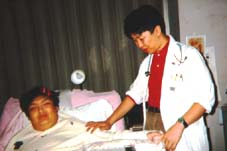
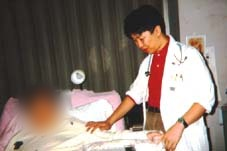
WPW成績をCAデータから再集計して更新、アルバムの写真を修正
- wpw_results.html: 2006/1〜2026/9のWPW治療720件（患者654人）で期間×位置の治療件数・再発件数・再発率を更新。
  顕性・間欠性・潜在性ごとの位置の割合を円グラフ3つで表示（病型未入力は術前心電図の記載から補完）
- album: 「PL教師の顔」を削除、患者さんと赤ちゃんの顔をぼかし、女装の写真を1/4の大きさで「大うけでした」に重ねて表示

Changed region(s): [[0.0617, 0.5828, 0.3084, 0.9272]]

diff --git a/wpw_results.html b/wpw_results.html
@@ -3,7 +3,7 @@
 <head>
   <meta charset="UTF-8">
   <meta name="viewport" content="width=device-width, initial-scale=1, viewport-fit=cover">
-  <meta name="description" content="大阪市立総合医療センター 小児不整脈科で2006年から2026年までに行ったWPW症候群のアブレーション治療の成績。副伝導路の位置（左側・中隔・右側）と治療時期ごとの症例数・再発数・再発率。">
+  <meta name="description" content="大阪市立総合医療センター 小児不整脈科で2006年から2026年までに行ったWPW症候群のアブレーション治療の成績。副伝導路の位置（左側・中隔・右側）と治療時期ごとの治療件数・再発件数・再発率、顕性・間欠性・潜在性ごとの位置の割合。">
   <title>WPW症候群アブレーション 20年間の成績 | つぐとしのweb site</title>
   <link rel="shortcut icon" href="assets/icons/profile.ico">
   <link rel="icon" type="image/png" sizes="32x32" href="assets/icons/profile-32.png">
@@ -102,32 +102,38 @@
       .nx .wpw-area { height: 200px; }
       .nx .wpw-legend { font-size: .82rem; gap: 4px 14px; }
     }
-    /* 位置別の症例数（顕性・潜在性）の棒グラフ：縦軸 0〜160例 */
-    .nx { --q1: #c4581c; --q2: #2a8c7c; }
-    .nx .wpw-sw.q1, .nx .dist-fill.q1 { background: var(--q1); }
-    .nx .wpw-sw.q2, .nx .dist-fill.q2 { background: var(--q2); }
-    .nx .dist-plot { position: relative; margin-top: 14px; }
-    .nx .dist-group { display: flex; flex: 1; justify-content: center; gap: 10px; }
-    .nx .dist-bar { position: relative; width: 34px; height: 100%; }
-    .nx .dist-fill {
-      position: absolute; left: 0; right: 0; bottom: 0; height: calc(var(--v) / 160 * 100%);
-      border-radius: 4px 4px 0 0; transform-origin: bottom; transition: transform .8s cubic-bezier(.2, .7, .2, 1);
+    /* 位置の割合の円グラフ（CSSの conic-gradient で描く） */
+    .nx { --c-l: #c4581c; --c-s: #e0a526; --c-r: #2a8c7c; }
+    .nx .pies { display: grid; grid-template-columns: repeat(3, minmax(0, 1fr)); gap: 14px; margin-top: 16px; }
+    .nx .pie-card { margin: 0; padding: 16px 14px 14px; border-radius: 16px; background: rgba(255, 255, 255, .85); box-shadow: inset 0 0 0 1px var(--line); text-align: center; }
+    .nx .pie-card figcaption b { display: block; color: var(--ink); font-size: 1.15rem; font-weight: 800; }
+    .nx .pie-card figcaption small { display: block; min-height: 2.6em; color: var(--muted); font-size: .8rem; line-height: 1.45; }
+    .nx .pie {
+      position: relative; width: min(170px, 100%); aspect-ratio: 1; margin: 10px auto 12px; border-radius: 50%;
+      box-shadow: 0 10px 22px -12px rgba(8, 58, 38, .5); transition: transform .9s cubic-bezier(.2, .7, .2, 1), opacity .9s ease;
     }
-    .nx .dist-val {
-      position: absolute; left: 50%; bottom: calc(var(--v) / 160 * 100% + 4px); transform: translateX(-50%);
-      color: var(--ink); font-size: .8rem; font-weight: 800; line-height: 1; white-space: nowrap;
+    .nx .pie-hole {
+      position: absolute; inset: 27%; display: grid; place-content: center; border-radius: 50%; background: #fff;
+      color: var(--muted); font-size: .78rem; line-height: 1.1;
     }
-    .nx-js .nx [data-reveal]:not(.is-in) .dist-fill { transform: scaleY(0); }
-    .nx .dist-list { margin: 16px 0 0; padding-left: 1.2em; }
-    .nx .dist-list li { margin: 4px 0; }
-    .nx .dist-n { display: block; color: var(--muted); font-size: .86rem; }
-    @media (max-width: 599px) {
-      .nx .dist-bar { width: 26px; }
-      .nx .dist-group { gap: 6px; }
+    .nx .pie-hole b { color: var(--ink); font-size: 1.3rem; font-weight: 800; }
+    .nx-js .nx [data-reveal]:not(.is-in) .pie { transform: rotate(-90deg) scale(.7); opacity: 0; }
+    .nx .pie-legend { display: grid; gap: 4px; margin: 0 !important; padding: 0 !important; list-style: none; text-align: left; }
+    .nx .pie-legend li { display: grid; grid-template-columns: 14px 1fr auto; align-items: center; gap: 2px 8px; margin: 0 !important; color: var(--ink-2); font-size: .88rem; font-weight: 700; }
+    .nx .pie-legend b { color: var(--ink); font-size: 1rem; }
+    .nx .pie-legend small { grid-column: 2 / 4; margin-top: -4px; color: var(--muted); font-size: .75rem; font-weight: 400; }
+    .nx .pie-sw { width: 12px; height: 12px; border-radius: 3px; }
+    @media (max-width: 760px) {
+      .nx .pies { grid-template-columns: 1fr; }
+      .nx .pie-card { display: grid; grid-template-columns: 120px 1fr; grid-template-areas: "cap cap" "pie leg"; align-items: center; gap: 4px 16px; text-align: left; }
+      .nx .pie-card figcaption { grid-area: cap; }
+      .nx .pie-card figcaption small { min-height: 0; }
+      .nx .pie { grid-area: pie; width: 120px; margin: 6px 0; }
+      .nx .pie-legend { grid-area: leg; }
     }
-    @media (prefers-reduced-motion: reduce) { .nx .dist-fill { transition: none; } }
+    @media (prefers-reduced-motion: reduce) { .nx .pie { transition: none; } }
     @media (forced-colors: active) {
-      .nx .wpw-fill, .nx .wpw-sw, .nx .wpw-key, .nx .dist-fill { forced-color-adjust: none; }
+      .nx .wpw-fill, .nx .wpw-sw, .nx .wpw-key, .nx .pie, .nx .pie-sw { forced-color-adjust: none; }
     }
   </style>
   <!-- Google tag (gtag.js) -->
@@ -158,9 +164,9 @@
       <div class="page-hero wpw-hero">
         <p class="eyebrow">Catheter ablation · 2006–2026</p>
         <h1><span class="nw">アブレーション治療</span><span class="nw">（WPW症候群）</span><span class="h1-sub">2026年までの20年間の成績</span></h1>
-        <p class="sec-lede">2006年に大阪市立総合医療センター 小児不整脈科に赴任してから、2026年までの20年間に当科で行った<b>WPW症候群のアブレーション治療</b>の成績です。副伝導路の位置（左側・中隔・右側）と治療した時期（3つの期間）に分けて、症例数と再発をまとめました。</p>
+        <p class="sec-lede">2006年に大阪市立総合医療センター 小児不整脈科に赴任してから、2026年までの20年間に当科で行った<b>WPW症候群のアブレーション治療</b>の成績です。副伝導路の位置（左側・中隔・右側）と治療した時期（3つの期間）に分けて、治療件数と再発をまとめ、顕性・間欠性・潜在性ごとの位置の割合も示しました。</p>
         <nav class="jump" aria-label="このページの目次">
-          <a href="#summary">概要</a><a href="#location">位置別の症例数</a><a href="#chart">再発率のグラフ</a><a href="#tables">集計表</a><a href="#related">関連ページ</a>
+          <a href="#summary">概要</a><a href="#location">位置の割合</a><a href="#chart">再発率のグラフ</a><a href="#tables">集計表</a><a href="#related">関連ページ</a>
         </nav>
       </div>
 
@@ -169,14 +175,14 @@
           <h2>概要</h2>
           <div class="wpw-kpis">
             <div class="wpw-kpi">
-              <p class="k-label">総症例数</p>
-              <p class="k-value">692<small>例</small></p>
-              <p class="k-sub"><span class="nw">2006–2026年、</span><span class="nw">3部位の合計</span></p>
+              <p class="k-label">治療件数</p>
+              <p class="k-value">720<small>件</small></p>
+              <p class="k-sub"><span class="nw">2006年1月–2026年9月、</span><span class="nw">患者654人</span></p>
             </div>
             <div class="wpw-kpi">
               <p class="k-label">全体の再発率</p>
-              <p class="k-value">10.0<small>%</small></p>
-              <p class="k-sub"><span class="nw">再発69例</span> <span class="nw">÷ 692例</span></p>
+              <p class="k-value">9.4<small>%</small></p>
+              <p class="k-sub"><span class="nw">再発68件</span> <span class="nw">÷ 720件</span></p>
             </div>
           </div>
 
@@ -184,62 +190,46 @@
           <div class="wpw-kpis wpw-kpis--3">
             <div class="wpw-kpi">
               <p class="k-label"><span class="wpw-key" aria-hidden="true"></span>左側</p>
-              <p class="k-value">2.8<small>%</small></p>
-              <p class="k-sub"><span class="nw">2006–2012年</span><span class="nw">は8.4%</span></p>
+              <p class="k-value">3.2<small>%</small></p>
+              <p class="k-sub"><span class="nw">2006–2012年</span><span class="nw">は8.1%</span></p>
             </div>
             <div class="wpw-kpi">
               <p class="k-label"><span class="wpw-key" aria-hidden="true"></span>中隔</p>
-              <p class="k-value">9.6<small>%</small></p>
-              <p class="k-sub"><span class="nw">2006–2012年</span><span class="nw">は17.8%</span></p>
+              <p class="k-value">11.9<small>%</small></p>
+              <p class="k-sub"><span class="nw">2006–2012年</span><span class="nw">は18.8%</span></p>
             </div>
             <div class="wpw-kpi">
               <p class="k-label"><span class="wpw-key" aria-hidden="true"></span>右側</p>
-              <p class="k-value">5.3<small>%</small></p>
-              <p class="k-sub"><span class="nw">2006–2012年</span><span class="nw">は19.4%</span></p>
+              <p class="k-value">5.7<small>%</small></p>
+              <p class="k-sub"><span class="nw">2006–2012年</span><span class="nw">は18.5%</span></p>
             </div>
           </div>
-          <p class="wpw-note-small">総症例数と全体の再発率は、下の集計表の数字から計算した値です。</p>
 
           <p class="doc-note">2019–2026年の再発率は、左側・中隔・右側のいずれの位置でも、それ以前の2つの期間より低くなっています。</p>
         </section>
 
         <section class="doc-card glass" id="location" data-reveal>
-          <h2>副伝導路の位置別の症例数（顕性・潜在性）</h2>
-          <p>アブレーション1021例の論文（2006〜2018年）で、WPW症候群の副伝導路を<b>顕性</b>（心電図にデルタ波が出るもの）と<b>潜在性</b>（逆行性にだけ伝導し、頻拍発作を起こすもの）に分けて、位置ごとに数えた症例数です。</p>
-          <figure class="wpw-chart">
-            <ul class="wpw-legend" aria-label="凡例">
-              <li><span class="wpw-sw q1" aria-hidden="true"></span>顕性WPW</li>
-              <li><span class="wpw-sw q2" aria-hidden="true"></span>潜在性</li>
-            </ul>
-            <div class="dist-plot" role="group" aria-label="副伝導路の位置ごとの顕性・潜在性の症例数の棒グラフ">
-              <p class="wpw-unit">症例数（例）</p>
-              <div class="wpw-area dist-area">
-                <div class="wpw-grid" style="bottom:100%"><span>160</span></div><div class="wpw-grid" style="bottom:75%"><span>120</span></div><div class="wpw-grid" style="bottom:50%"><span>80</span></div><div class="wpw-grid" style="bottom:25%"><span>40</span></div><div class="wpw-grid base" style="bottom:0%"><span>0</span></div>
-                <div class="wpw-groups">
-                  <div class="dist-group">
-                    <div class="dist-bar" style="--v:141" role="img" aria-label="左側、顕性WPW：141例"><span class="dist-fill q1"></span><span class="dist-val">141</span></div>
-                    <div class="dist-bar" style="--v:61" role="img" aria-label="左側、潜在性：61例"><span class="dist-fill q2"></span><span class="dist-val">61</span></div>
-                  </div>
-                  <div class="dist-group">
-                    <div class="dist-bar" style="--v:58" role="img" aria-label="中隔、顕性WPW：58例"><span class="dist-fill q1"></span><span class="dist-val">58</span></div>
-                    <div class="dist-bar" style="--v:20" role="img" aria-label="中隔、潜在性：20例"><span class="dist-fill q2"></span><span class="dist-val">20</span></div>
-                  </div>
-                  <div class="dist-group">
-                    <div class="dist-bar" style="--v:99" role="img" aria-label="右側、顕性WPW：99例"><span class="dist-fill q1"></span><span class="dist-val">99</span></div>
-                    <div class="dist-bar" style="--v:13" role="img" aria-label="右側、潜在性：13例"><span class="dist-fill q2"></span><span class="dist-val">13</span></div>
-                  </div>
-                </div>
-              </div>
-              <div class="wpw-x" aria-hidden="true"><span>左側</span><span>中隔</span><span>右側</span></div>
-            </div>
-            <figcaption class="wpw-hint">複数の副伝導路があった例（顕性11例、潜在性2例）は含めていません。出典：Heart Rhythm 2019（Table 3）</figcaption>
-          </figure>
-          <ul class="dist-list">
-            <li><b>顕性WPW</b>（3部位で298例）：左 約50%、右 約30%、中隔 約20%<span class="dist-n">（左側141例・中隔58例・右側99例）</span></li>
-            <li><b>潜在性</b>（3部位で94例）：左 約65%、右 約15%、中隔 約20%<span class="dist-n">（左側61例・中隔20例・右側13例）</span></li>
-          </ul>
+          <h2>副伝導路の位置の割合（顕性・間欠性・潜在性）</h2>
+          <p>WPW症候群を、心電図のデルタ波の出かたで3つに分け、副伝導路の位置（左側・中隔・右側）の割合を比べました。1人の患者さんを1回だけ数えています（2回目以降の治療は数えていません）。</p>
+          <div class="pies">
+            <figure class="pie-card">
+              <figcaption><b>顕性</b><small>いつもデルタ波が出る（358人）</small></figcaption>
+              <div class="pie" style="background:conic-gradient(var(--c-l) 0.00% 44.50%, var(--c-s) 44.50% 65.95%, var(--c-r) 65.95% 100.00%)" role="img" aria-label="顕性の副伝導路の位置：左側166例（45%）、中隔80例（21%）、右側127例（34%）"><span class="pie-hole"><b>358</b>人</span></div>
+              <ul class="pie-legend"><li><span class="pie-sw" style="background:var(--c-l)" aria-hidden="true"></span>左側<b>45%</b><small>166例</small></li><li><span class="pie-sw" style="background:var(--c-s)" aria-hidden="true"></span>中隔<b>21%</b><small>80例</small></li><li><span class="pie-sw" style="background:var(--c-r)" aria-hidden="true"></span>右側<b>34%</b><small>127例</small></li></ul>
+            </figure>
+            <figure class="pie-card">
+              <figcaption><b>間欠性</b><small>デルタ波が出たり消えたりする（98人）</small></figcaption>
+              <div class="pie" style="background:conic-gradient(var(--c-l) 0.00% 39.60%, var(--c-s) 39.60% 61.39%, var(--c-r) 61.39% 100.00%)" role="img" aria-label="間欠性の副伝導路の位置：左側40例（40%）、中隔22例（22%）、右側39例（39%）"><span class="pie-hole"><b>98</b>人</span></div>
+              <ul class="pie-legend"><li><span class="pie-sw" style="background:var(--c-l)" aria-hidden="true"></span>左側<b>40%</b><small>40例</small></li><li><span class="pie-sw" style="background:var(--c-s)" aria-hidden="true"></span>中隔<b>22%</b><small>22例</small></li><li><span class="pie-sw" style="background:var(--c-r)" aria-hidden="true"></span>右側<b>39%</b><small>39例</small></li></ul>
+            </figure>
+            <figure class="pie-card">
+              <figcaption><b>潜在性</b><small>デルタ波が出ない（逆向きにだけ伝わる）（189人）</small></figcaption>
+              <div class="pie" style="background:conic-gradient(var(--c-l) 0.00% 67.71%, var(--c-s) 67.71% 85.94%, var(--c-r) 85.94% 100.00%)" role="img" aria-label="潜在性の副伝導路の位置：左側130例（68%）、中隔35例（18%）、右側27例（14%）"><span class="pie-hole"><b>189</b>人</span></div>
+              <ul class="pie-legend"><li><span class="pie-sw" style="background:var(--c-l)" aria-hidden="true"></span>左側<b>68%</b><small>130例</small></li><li><span class="pie-sw" style="background:var(--c-s)" aria-hidden="true"></span>中隔<b>18%</b><small>35例</small></li><li><span class="pie-sw" style="background:var(--c-r)" aria-hidden="true"></span>右側<b>14%</b><small>27例</small></li></ul>
+            </figure>
+          </div>
           <p class="doc-note">潜在性は、右側が少ない、というデータです。あまり知られていないデータだと思います。</p>
-          <p class="wpw-note-small">この内訳は論文の集計期間（2006〜2018年）の数字です。下の2026年までの集計には、顕性・潜在性の区別は含まれていません。<a href="index_kato_paper.html">アブレーション1000例の論文のページへ</a></p>
+          <p class="wpw-note-small">1人に複数の副伝導路があった場合は、それぞれの位置に1つずつ数えています（そのため位置の合計は人数より少し多くなります）。病型が記録されていなかった患者さんのうち、術前の心電図の記載から判定できた人はその病型に含め、判定できなかった9人は除いています。アブレーション1021例の論文（2006〜2018年）でも、同じ傾向でした（<a href="index_kato_paper.html">論文のページへ</a>）。</p>
         </section>
 
         <section class="doc-card glass" id="chart" data-reveal>
@@ -260,62 +250,62 @@
                 <div class="wpw-grid base" style="bottom:0"><span>0</span></div>
                 <div class="wpw-groups">
                   <div class="wpw-group">
-                    <button class="wpw-bar" type="button" style="--v:8.4" data-p="1" data-loc="左側" data-period="2006–2012年" data-rate="8.4" data-rec="11" data-n="131" aria-label="左側、2006–2012年：再発率8.4%（再発11例、症例131例）"><span class="wpw-fill p1"></span></button>
-                    <button class="wpw-bar" type="button" style="--v:8.6" data-p="2" data-loc="左側" data-period="2013–2018年" data-rate="8.6" data-rec="9" data-n="105" aria-label="左側、2013–2018年：再発率8.6%（再発9例、症例105例）"><span class="wpw-fill p2"></span></button>
-                    <button class="wpw-bar" type="button" style="--v:2.8" data-p="3" data-loc="左側" data-period="2019–2026年" data-rate="2.8" data-rec="3" data-n="106" aria-label="左側、2019–2026年：再発率2.8%（再発3例、症例106例）"><span class="wpw-fill p3"></span><span class="wpw-val" aria-hidden="true">2.8</span></button>
+                    <button class="wpw-bar" type="button" style="--v:8.1" data-p="1" data-loc="左側" data-period="2006–2012年" data-rate="8.1" data-rec="11" data-n="136" aria-label="左側、2006–2012年：再発率8.1%（再発11件、治療136件）"><span class="wpw-fill p1"></span></button>
+                    <button class="wpw-bar" type="button" style="--v:8.4" data-p="2" data-loc="左側" data-period="2013–2018年" data-rate="8.4" data-rec="9" data-n="107" aria-label="左側、2013–2018年：再発率8.4%（再発9件、治療107件）"><span class="wpw-fill p2"></span></button>
+                    <button class="wpw-bar" type="button" style="--v:3.2" data-p="3" data-loc="左側" data-period="2019–2026年" data-rate="3.2" data-rec="4" data-n="126" aria-label="左側、2019–2026年：再発率3.2%（再発4件、治療126件）"><span class="wpw-fill p3"></span><span class="wpw-val" aria-hidden="true">3.2</span></button>
                   </div>
                   <div class="wpw-group">
-                    <button class="wpw-bar" type="button" style="--v:17.8" data-p="1" data-loc="中隔" data-period="2006–2012年" data-rate="17.8" data-rec="8" data-n="45" aria-label="中隔、2006–2012年：再発率17.8%（再発8例、症例45例）"><span class="wpw-fill p1"></span></button>
-                    <button class="wpw-bar" type="button" style="--v:15.6" data-p="2" data-loc="中隔" data-period="2013–2018年" data-rate="15.6" data-rec="7" data-n="45" aria-label="中隔、2013–2018年：再発率15.6%（再発7例、症例45例）"><span class="wpw-fill p2"></span></button>
-                    <button class="wpw-bar" type="button" style="--v:9.6" data-p="3" data-loc="中隔" data-period="2019–2026年" data-rate="9.6" data-rec="5" data-n="52" aria-label="中隔、2019–2026年：再発率9.6%（再発5例、症例52例）"><span class="wpw-fill p3"></span><span class="wpw-val" aria-hidden="true">9.6</span></button>
+                    <button class="wpw-bar" type="button" style="--v:18.8" data-p="1" data-loc="中隔" data-period="2006–2012年" data-rate="18.8" data-rec="9" data-n="48" aria-label="中隔、2006–2012年：再発率18.8%（再発9件、治療48件）"><span class="wpw-fill p1"></span></button>
+                    <button class="wpw-bar" type="button" style="--v:15.2" data-p="2" data-loc="中隔" data-period="2013–2018年" data-rate="15.2" data-rec="7" data-n="46" aria-label="中隔、2013–2018年：再発率15.2%（再発7件、治療46件）"><span class="wpw-fill p2"></span></button>
+                    <button class="wpw-bar" type="button" style="--v:11.9" data-p="3" data-loc="中隔" data-period="2019–2026年" data-rate="11.9" data-rec="7" data-n="59" aria-label="中隔、2019–2026年：再発率11.9%（再発7件、治療59件）"><span class="wpw-fill p3"></span><span class="wpw-val" aria-hidden="true">11.9</span></button>
                   </div>
                   <div class="wpw-group">
-                    <button class="wpw-bar" type="button" style="--v:19.4" data-p="1" data-loc="右側" data-period="2006–2012年" data-rate="19.4" data-rec="12" data-n="62" aria-label="右側、2006–2012年：再発率19.4%（再発12例、症例62例）"><span class="wpw-fill p1"></span></button>
-                    <button class="wpw-bar" type="button" style="--v:14.3" data-p="2" data-loc="右側" data-period="2013–2018年" data-rate="14.3" data-rec="10" data-n="70" aria-label="右側、2013–2018年：再発率14.3%（再発10例、症例70例）"><span class="wpw-fill p2"></span></button>
-                    <button class="wpw-bar" type="button" style="--v:5.3" data-p="3" data-loc="右側" data-period="2019–2026年" data-rate="5.3" data-rec="4" data-n="76" aria-label="右側、2019–2026年：再発率5.3%（再発4例、症例76例）"><span class="wpw-fill p3"></span><span class="wpw-val" aria-hidden="true">5.3</span></button>
+                    <button class="wpw-bar" type="button" style="--v:18.5" data-p="1" data-loc="右側" data-period="2006–2012年" data-rate="18.5" data-rec="12" data-n="65" aria-label="右側、2006–2012年：再発率18.5%（再発12件、治療65件）"><span class="wpw-fill p1"></span></button>
+                    <button class="wpw-bar" type="button" style="--v:13.7" data-p="2" data-loc="右側" data-period="2013–2018年" data-rate="13.7" data-rec="10" data-n="73" aria-label="右側、2013–2018年：再発率13.7%（再発10件、治療73件）"><span class="wpw-fill p2"></span></button>
+                    <button class="wpw-bar" type="button" style="--v:5.7" data-p="3" data-loc="右側" data-period="2019–2026年" data-rate="5.7" data-rec="5" data-n="87" aria-label="右側、2019–2026年：再発率5.7%（再発5件、治療87件）"><span class="wpw-fill p3"></span><span class="wpw-val" aria-hidden="true">5.7</span></button>
                   </div>
                 </div>
               </div>
               <div class="wpw-x" aria-hidden="true"><span>左側</span><span>中隔</span><span>右側</span></div>
               <div class="wpw-tip" aria-hidden="true" hidden></div>
             </div>
-            <figcaption class="wpw-hint">棒にマウスを合わせる（スマホではタップする）と、再発数と症例数も表示されます。すべての数字は下の集計表にあります。</figcaption>
+            <figcaption class="wpw-hint">棒にマウスを合わせる（スマホではタップする）と、再発件数と治療件数も表示されます。すべての数字は下の集計表にあります。</figcaption>
           </figure>
         </section>
 
         <section class="doc-card glass" id="tables" data-reveal>
           <h2>集計表</h2>
 
-          <h3>症例数</h3>
+          <h3>治療件数</h3>
           <div class="doc-scroll">
             <table class="doc-table wpw-table">
               <thead>
                 <tr><th scope="col">WPWの位置</th><th scope="col" class="num">2006–2012年</th><th scope="col" class="num">2013–2018年</th><th scope="col" class="num">2019–2026年</th><th scope="col" class="num">合計</th></tr>
               </thead>
               <tbody>
-                <tr><th scope="row">左側</th><td>131</td><td>105</td><td>106</td><td class="total">342</td></tr>
-                <tr><th scope="row">中隔</th><td>45</td><td>45</td><td>52</td><td class="total">142</td></tr>
-                <tr><th scope="row">右側</th><td>62</td><td>70</td><td>76</td><td class="total">208</td></tr>
+                <tr><th scope="row">左側</th><td>136</td><td>107</td><td>126</td><td class="total">369</td></tr>
+                <tr><th scope="row">中隔</th><td>48</td><td>46</td><td>59</td><td class="total">153</td></tr>
+                <tr><th scope="row">右側</th><td>65</td><td>73</td><td>87</td><td class="total">225</td></tr>
               </tbody>
               <tfoot>
-                <tr><th scope="row">全体※</th><td>238</td><td>220</td><td>234</td><td>692</td></tr>
+                <tr><th scope="row">全体※</th><td>249</td><td>226</td><td>272</td><td>747</td></tr>
               </tfoot>
             </table>
           </div>
 
-          <h3>再発数</h3>
+          <h3>再発件数</h3>
           <div class="doc-scroll">
             <table class="doc-table wpw-table">
               <thead>
                 <tr><th scope="col">WPWの位置</th><th scope="col" class="num">2006–2012年</th><th scope="col" class="num">2013–2018年</th><th scope="col" class="num">2019–2026年</th><th scope="col" class="num">合計</th></tr>
               </thead>
               <tbody>
-                <tr><th scope="row">左側</th><td>11</td><td>9</td><td>3</td><td class="total">23</td></tr>
-                <tr><th scope="row">中隔</th><td>8</td><td>7</td><td>5</td><td class="total">20</td></tr>
-                <tr><th scope="row">右側</th><td>12</td><td>10</td><td>4</td><td class="total">26</td></tr>
+                <tr><th scope="row">左側</th><td>11</td><td>9</td><td>4</td><td class="total">24</td></tr>
+                <tr><th scope="row">中隔</th><td>9</td><td>7</td><td>7</td><td class="total">23</td></tr>
+                <tr><th scope="row">右側</th><td>12</td><td>10</td><td>5</td><td class="total">27</td></tr>
               </tbody>
               <tfoot>
-                <tr><th scope="row">全体※</th><td>31</td><td>26</td><td>12</td><td>69</td></tr>
+                <tr><th scope="row">全体※</th><td>32</td><td>26</td><td>16</td><td>74</td></tr>
               </tfoot>
             </table>
           </div>
@@ -327,18 +317,18 @@
                 <tr><th scope="col">WPWの位置</th><th scope="col" class="num">2006–2012年</th><th scope="col" class="num">2013–2018年</th><th scope="col" class="num">2019–2026年</th><th scope="col" class="num">全期間</th></tr>
               </thead>
               <tbody>
-                <tr><th scope="row">左側</th><td>8.4</td><td>8.6</td><td>2.8</td><td class="total">6.7</td></tr>
-                <tr><th scope="row">中隔</th><td>17.8</td><td>15.6</td><td>9.6</td><td class="total">14.1</td></tr>
-                <tr><th scope="row">右側</th><td>19.4</td><td>14.3</td><td>5.3</td><td class="total">12.5</td></tr>
+                <tr><th scope="row">左側</th><td>8.1</td><td>8.4</td><td>3.2</td><td class="total">6.5</td></tr>
+                <tr><th scope="row">中隔</th><td>18.8</td><td>15.2</td><td>11.9</td><td class="total">15.0</td></tr>
+                <tr><th scope="row">右側</th><td>18.5</td><td>13.7</td><td>5.7</td><td class="total">12.0</td></tr>
               </tbody>
               <tfoot>
-                <tr><th scope="row">全体※</th><td>13.0</td><td>11.8</td><td>5.1</td><td>10.0</td></tr>
+                <tr><th scope="row">全体※</th><td>12.9</td><td>11.5</td><td>5.9</td><td>9.9</td></tr>
               </tfoot>
             </table>
           </div>
 
-          <p class="wpw-note-small">※「全体」の行は、左側・中隔・右側の数字を足し合わせて計算した値です（再発率は、再発数 ÷ 症例数）。</p>
-          <p class="doc-note">出典：当科の集計（WPW症候群の再発を、副伝導路の位置と治療時期で分けて解析したもの）。</p>
+          <p class="wpw-note-small">※「全体」の行は、左側・中隔・右側の数字を足し合わせた値です（再発率は、再発件数 ÷ 治療件数）。複数の副伝導路があった治療はそれぞれの位置に数えているため、「全体」は治療件数（720件）より少し多くなります。</p>
+          <p class="doc-note">集計方法：当科のアブレーション治療データベースから、2006年1月1日〜2026年9月26日のWPW症候群の治療720件（患者654人）を集計しました。同じ患者さんの2回目以降の治療も1件として数えています。再発は、データベースに再発と記録されたものを数えた値です（追跡期間の長さは揃えていません）。</p>
         </section>
 
         <section class="doc-card glass" id="related" data-reveal>
@@ -386,7 +376,7 @@
         name.appendChild(key);
         name.appendChild(document.createTextNode(d.loc + ' · ' + d.period));
         tip.appendChild(name);
-        tip.appendChild(el('span', 't-sub', '再発 ' + d.rec + '例 / 症例 ' + d.n + '例'));
+        tip.appendChild(el('span', 't-sub', '再発 ' + d.rec + '件 / 治療 ' + d.n + '件'));
         tip.hidden = false;
 
         var pr = plot.getBoundingClientRect();

diff --git a/album/index.html b/album/index.html
@@ -30,6 +30,16 @@
     @media (max-width: 599px) {
       .nx .al-part .gallery--small { grid-template-columns: repeat(2, minmax(0, 1fr)); gap: 16px 12px; }
     }
+    /* 2枚の写真を重ねる（小さい写真を右上に1/4の大きさで） */
+    .nx .shot--combo .combo-wrap { position: relative; }
+    .nx .combo-inset {
+      position: absolute; top: -10px; right: -8px; width: 25%; min-width: 60px; padding: 0; overflow: hidden;
+      border: 3px solid #fff; border-radius: 10px; background: #fff; cursor: zoom-in;
+      box-shadow: 0 10px 20px -8px rgba(8, 58, 38, .55); transform: rotate(4deg);
+      transition: transform .35s cubic-bezier(.2, .7, .2, 1);
+    }
+    .nx .combo-inset img { display: block; width: 100% !important; }
+    @media (hover: hover) { .nx .combo-inset:hover { transform: rotate(0) scale(1.08); } }
   </style>
   <script>document.documentElement.classList.add('nx-js');</script>
   <!-- Google tag (gtag.js) -->
@@ -122,16 +132,14 @@
 </div>
 </section>
 <section class="al-part glass" id="album-doctor">
-<header class="al-head"><span class="ride-date">After Graduation</span><h2>大学卒業後<span class="al-count">8枚</span></h2></header>
+<header class="al-head"><span class="ride-date">After Graduation</span><h2>大学卒業後<span class="al-count">7枚</span></h2></header>
 <div class="gallery gallery--small">
 <figure class="shot shot--full"><button class="shot-img" type="button" data-lightbox aria-label="写真を拡大"><img src="DOCTOR/12.JPG" width="340" height="243" alt="PL教校時代の写真です" loading="lazy" decoding="async"></button><figcaption>PL教校時代の写真です。のどかな夕暮れ、桜つみをした時の写真で、みんな、いい顔してます。とても気に入ってる写真です。</figcaption></figure>
-<figure class="shot shot--full"><button class="shot-img" type="button" data-lightbox aria-label="写真を拡大"><img src="DOCTOR/13.JPG" width="198" height="115" alt="PL教師の顔" loading="lazy" decoding="async"></button><figcaption>PL教師の顔。</figcaption></figure>
 <figure class="shot shot--full"><button class="shot-img" type="button" data-lightbox aria-label="写真を拡大"><img src="DOCTOR/14.JPG" width="227" height="147" alt="恩師・山口先生と" loading="lazy" decoding="async"></button><figcaption>恩師・山口先生と。いろいろ教えていただき、また、いっしょにばかなこともたくさんしました。</figcaption></figure>
-<figure class="shot shot--full"><button class="shot-img" type="button" data-lightbox aria-label="写真を拡大"><img src="DOCTOR/15.JPG" width="227" height="151" alt="医者になって数カ月の頃です" loading="lazy" decoding="async"></button><figcaption>医者になって数カ月の頃です。今も年数回手紙をくれる患者さんです。</figcaption></figure>
-<figure class="shot shot--full"><button class="shot-img" type="button" data-lightbox aria-label="写真を拡大"><img src="DOCTOR/16.JPG" width="133" height="204" alt="これも同じく新米ぺーぺーの頃の写真" loading="lazy" decoding="async"></button><figcaption>これも同じく新米ぺーぺーの頃の写真。病棟は、旧市大病院、小児科病棟です。</figcaption></figure>
+<figure class="shot shot--full"><button class="shot-img" type="button" data-lightbox aria-label="写真を拡大"><img src="DOCTOR/15.JPG?v=2" width="227" height="151" alt="医者になって数カ月の頃です" loading="lazy" decoding="async"></button><figcaption>医者になって数カ月の頃です。今も年数回手紙をくれる患者さんです。</figcaption></figure>
+<figure class="shot shot--full"><button class="shot-img" type="button" data-lightbox aria-label="写真を拡大"><img src="DOCTOR/16.JPG?v=2" width="133" height="204" alt="これも同じく新米ぺーぺーの頃の写真" loading="lazy" decoding="async"></button><figcaption>これも同じく新米ぺーぺーの頃の写真。病棟は、旧市大病院、小児科病棟です。</figcaption></figure>
 <figure class="shot shot--full"><button class="shot-img" type="button" data-lightbox aria-label="写真を拡大"><img src="DOCTOR/17.JPG" width="175" height="125" alt="今は総合医療センターにおられる山田先生と" loading="lazy" decoding="async"></button><figcaption>今は総合医療センターにおられる山田先生と。山田先生には西宮市立中央病院でお世話になりました。</figcaption></figure>
-<figure class="shot shot--full"><button class="shot-img" type="button" data-lightbox aria-label="写真を拡大"><img src="DOCTOR/18.JPG" width="174" height="154" alt="こんなことをさせられることもあります" loading="lazy" decoding="async"></button><figcaption>こんなことをさせられることもあります。これは西宮の忘年会で、むりやり女装させられた時の写真です。おぞましい。</figcaption></figure>
-<figure class="shot shot--full"><button class="shot-img" type="button" data-lightbox aria-label="写真を拡大"><img src="DOCTOR/19.JPG" width="227" height="171" alt="大うけでした" loading="lazy" decoding="async"></button><figcaption>大うけでした。</figcaption></figure>
+<figure class="shot shot--full shot--combo"><div class="combo-wrap"><button class="shot-img" type="button" data-lightbox aria-label="写真を拡大"><img src="DOCTOR/19.JPG" width="227" height="171" alt="大うけでした" loading="lazy" decoding="async"></button><button class="combo-inset" type="button" data-lightbox aria-label="女装した写真を拡大"><img src="DOCTOR/18.JPG" width="174" height="154" alt="西宮の忘年会で女装させられた時の写真" loading="lazy" decoding="async"></button></div><figcaption>こんなことをさせられることもあります。これは西宮の忘年会で、むりやり女装させられた時の写真です。おぞましい。大うけでした。</figcaption></figure>
 </div>
 </section>
 <section class="al-part glass" id="album-family">
